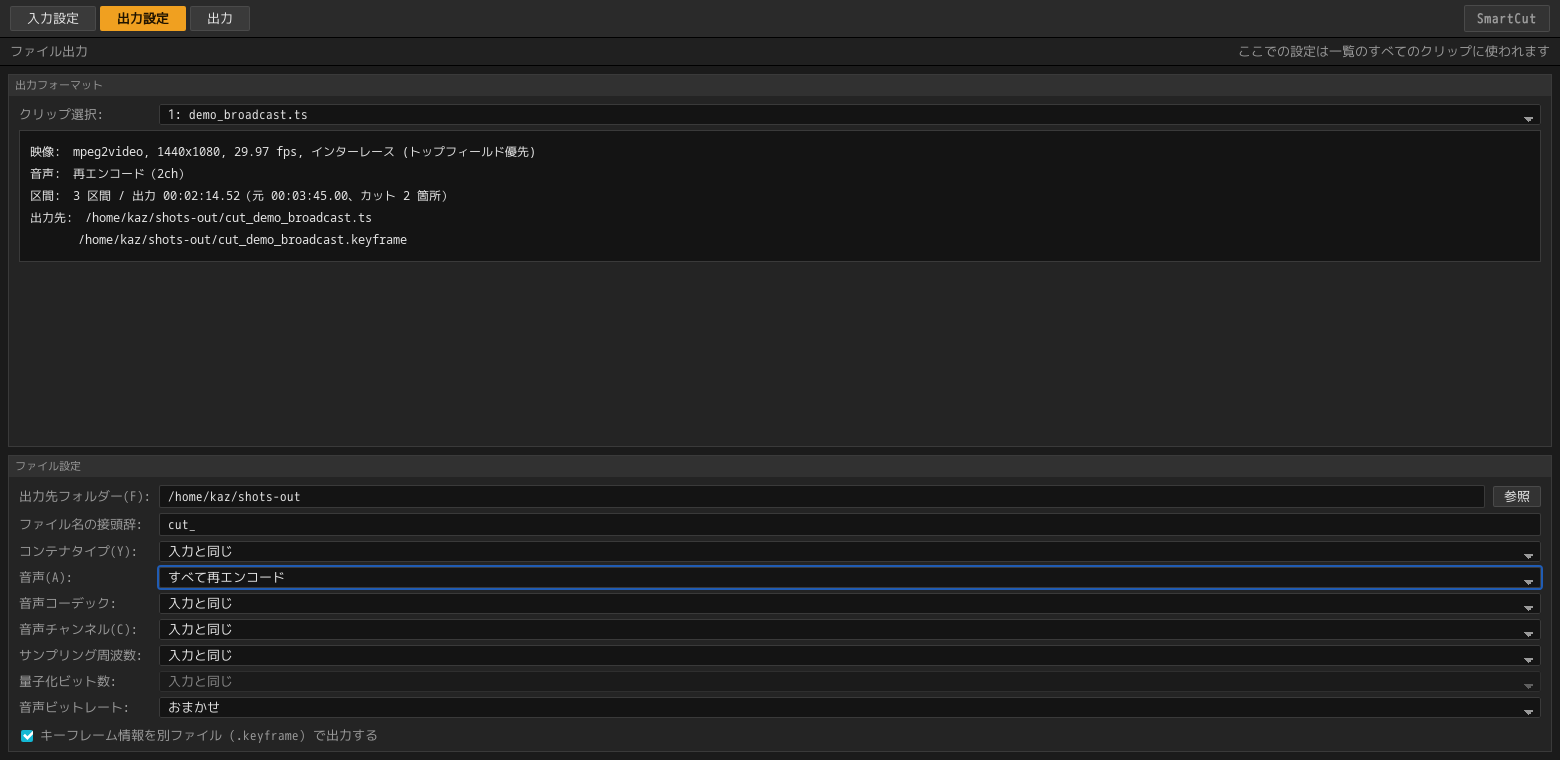
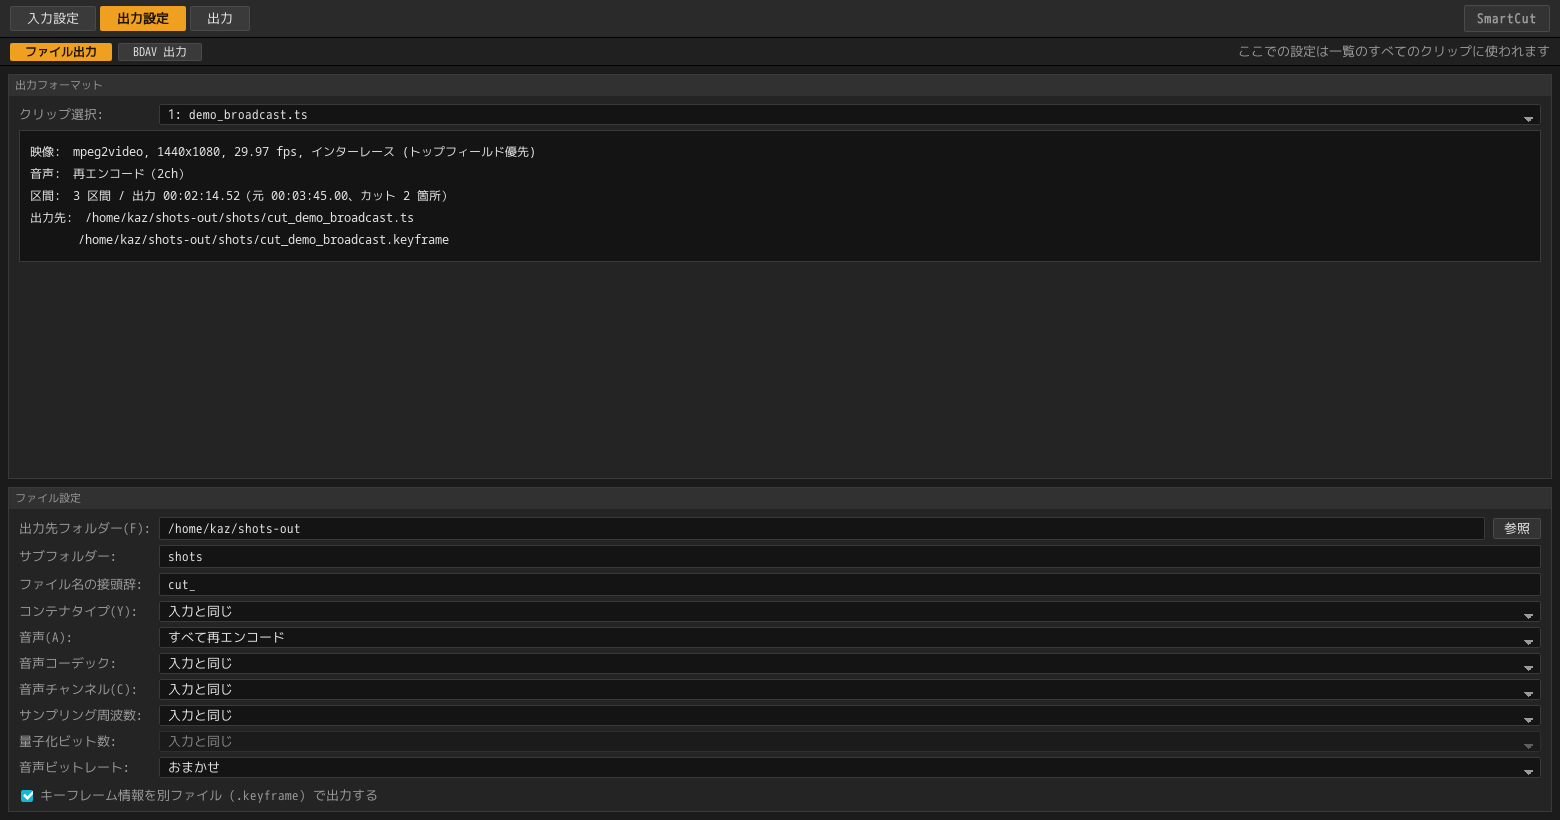
Say what the program does now, and photograph it doing it
The documentation had fallen behind three changes and one release.

* **Stopping a disc run.** Both guides still said that stopping never leaves a
  half-written file and nothing else. What they did not say is what a stopped
  disc run does now: no index is written, so the streams it wrote are taken
  back, and the same goes for a recording whose cut failed. The developer page
  on writing a disc says it beside "adding to a disc", which is where the rule
  it qualifies lives.
* **Numbering the output.** The batch guide explained `_1` and `_2` as a
  duplicate's numbers. They are not: what is numbered is whatever two rows
  would be written to the same path -- the same programme from two folders, or
  the `00001` every disc calls its recordings.
* **The folder a run makes.** The subfolder row was in the settings table and
  nowhere else. The disc section now says where the disc lands (`disc/An
  evening/BDAV`, and the image beside it under that name), and the design page
  says why a disc always gets one and files get one only when there is more
  than one of them.
* **The empty re-encode window** joins the pitfalls in the algorithm page as
  #9, since it is exactly what that list is for: a trap that stopped a real
  run, with a test that fixes it.

**Twelve screenshots retaken**, six pairs in both languages. The two settings
screens and the audio settings had no subfolder row and an output path a level
[…]

Changed region(s): [[0.0, 0.575, 0.9846, 0.9987], [0.0, 0.0, 0.9846, 0.3329], [0.8, 0.0, 1.0, 0.0908]]

diff --git a/docs/user-guide/gui.ja.md b/docs/user-guide/gui.ja.md
@@ -539,10 +539,17 @@ BDAV/
 
 **イメージとして出すこともできます。** `イメージ` の行で、書き終えたディスクを
 `.iso`——Blu-ray が積んでいるのと同じ UDF 2.50 / 2.60 のファイルシステム——に
-包みます。フォルダーの隣に同じ名前で置かれます（`disc/` と `disc.iso`）。
+包みます。ディスクのフォルダーの隣に、同じ名前で置かれます
+（`disc/録画ディスク/BDAV` に対して `disc/録画ディスク.iso`）。
 フォルダーはどちらでも書かれてそのまま残り、イメージは最後の録画の索引まで
 終わったところで作られます（1 秒あたり 1 ギガバイトほど）。SmartCut は
 ディスクを焼きません。渡すのはイメージまでで、焼くのは普段お使いのもので。
+
+**ディスクは自分の名前のフォルダーに入ります。** `ディスクの場所` に指定した
+フォルダーの下に、`サブフォルダー` の名前でもう 1 段作り、そこに `BDAV` を書きます
+（既定ではディスクタイトルと同じ名前です）。ディスクは `BDAV` フォルダーそのもの
+なので、2 枚を 1 つのフォルダーに置くことはできません。サブフォルダー欄を空に
+すれば、これまでどおり指定した場所へ直接書きます。
 
 **一覧全体で 1 枚のディスクになります。** 順番は一覧のとおりで、処理そのものは
 いつもと同じです。各録画はファイルに書くときとまったく同じスマートレンダリング
@@ -595,6 +602,12 @@ BDAV/
 `4 / 4 本を出力しました` のように表示されます。
 
 `出力中止` は、いま書き出しているクリップを最後まで書き終えてから止まります。
+
+**ディスクに書いている途中で止めた場合は、書いたぶんもディスクから引き上げます。**
+索引を作る行程（全ストリームの読み直し）は、止めると言われたあとに数分かける
+仕事なので走りません。走らない以上、書かれたストリームはどのプレイリストからも
+指されず、次回の採番からも外れ、あとで作るイメージにも入ってしまいます。カットに
+失敗したクリップのストリームも同じ扱いです。完走した場合は何も引き上げません。
 
 ### この画面に出るのは「再エンコードされるコマ」です
 

diff --git a/docs/developers/design.ja.md b/docs/developers/design.ja.md
@@ -813,8 +813,21 @@ TMSR6 の「流れるフィルムストリップ上でのサーチ」は、**右
 ないからである。M2TS を明示すればこれまでどおり M2TS が出て、そのときはテーブルを
 マルチプレクサに任せる旨をその場で言う。詳細は [ディスクを読む](disc.ja.md)。
 
-この 3 つはファイルごとに聞く質問ではなく、出力設定画面の設定になっている。フォルダー
-（空欄なら入力と同じ場所）、接頭辞（`cut_`）、そしてコンテナである。コンテナはコンテナ名と
+**同じファイルになる 2 行には番号を振る。** 一覧はもともと「同じ録画の複製」に番号を
+振っていたが、別のフォルダーにある同名の番組も、ディスクから読んだ録画（どれも
+`00001`）も、同じ出力先では同じ名前になる。番号を振る対象は、何が原因であれ**同じ
+パスに書かれる行**である。そうでなければ、「2 本出力しました」と言いながら 1 本が
+黙って消える。
+
+**出力が 2 つ以上あるときは、専用のフォルダーにまとめる。** ディスクは常にそうする。
+ディスクとは `BDAV` フォルダーそのものであり、2 枚を 1 つのフォルダーには置けない
+からである。ファイルは 2 本以上のときだけそうする。一晩ぶんの十数本が、前の晩のぶんと
+混ざって同じ場所に落ちる理由は無い。名前はディスクタイトルまたはプロジェクト名で
+埋めておき、そのあとはただの入力欄である。空にすれば上のフォルダーへ直接書き、1 本
+だけのカットは言われた場所へそのまま書く。
+
+これらはファイルごとに聞く質問ではなく、出力設定画面の設定になっている。フォルダー
+（空欄なら入力と同じ場所）、サブフォルダー、接頭辞（`cut_`）、そしてコンテナである。コンテナはコンテナ名と
 拡張子を一緒に並べた一覧になっている（**入力と同じ** / `MPEG-2 TS (.ts)` /
 `M2TS (.m2ts)` / `MP4 (.mp4)` / `Matroska (.mkv)` / `QuickTime (.mov)`）。「映像」1 行に
 まとめず**項目ごとにコンテナ**にしているのは、選ぶことがそのまま拡張子の切り替えだから

diff --git a/docs/user-guide/batch.ja.md b/docs/user-guide/batch.ja.md
@@ -100,10 +100,12 @@ libavcodec のスレッド化が効きません）。裏の処理どうしが分
 目的を果たせません。インデックス・尺・CM 検出の結果も引き継がれます。どれも同じ
 ファイルについての答えなので、複製してもディスクの読み直しは発生しません。
 
-同じ録画が一覧に複数ある場合、出力ファイル名には一覧順に `_1` `_2` が付きます。
-これが無いと 2 本目のカットが 1 本目を上書きしてしまいます。片方を消すと、残った
-ほうは番号の無い名前に戻ります。番号は複製時に刻み込むのではなく、そのつど一覧
-から数えているためです。
+**同じファイル名になる行には、一覧順に `_1` `_2` が付きます。** 複製がその代表例
+ですが、それだけではありません。別のフォルダーにある同名の番組も、ディスクから
+読んだ録画（どれも `00001`）も、同じ出力先に書けば同じ名前になります。番号が
+無ければ 2 本目が 1 本目を消してしまい、「2 本出力しました」と言いながら 1 本
+消えていることになります。片方を消すと、残ったほうは番号の無い名前に戻ります。
+番号は複製時に刻み込むのではなく、そのつど一覧から数えているためです。
 
 ## 一覧を書き出す
 
@@ -111,7 +113,10 @@ libavcodec のスレッド化が効きません）。裏の処理どうしが分
 その上に全体の状況・経過時間・残り時間が出ます。
 
 `出力中止` は、いま書き出しているクリップを最後まで書き終えてから止まります。
-途中まで書かれたファイルが残ることはありません。
+途中まで書かれたファイルが残ることはありません。**ディスクに書いている途中で
+止めた場合は、書いたぶんもディスクから引き上げます**——止めた実行では索引を作る
+行程が走らず、索引の無いストリームはディスクの誰からも指されないからです。詳しくは
+[GUI ガイド](gui.ja.md#4-書き出す)にあります。
 
 書き出しの順序は一覧の順序なので、「これを最初に書き出したい」というときは
 その行を上へドラッグします。

diff --git a/docs/user-guide/gui.md b/docs/user-guide/gui.md
@@ -559,11 +559,19 @@ or ImgBurn will burn as it stands.
 
 **Or it comes out as an image.** The `Image` row wraps the finished disc in a
 `.iso` — a UDF 2.50 or 2.60 filesystem, which is what a Blu-ray carries —
-written beside the folder under the same name: `disc/` and `disc.iso`. The
+written beside the disc's folder under the same name: `disc/An evening/BDAV`
+and `disc/An evening.iso`. The
 folder is written either way and stays where it is; the image is made of it
 once the last recording is indexed, at about a gigabyte a second. SmartCut
 does not burn discs: what it hands you is the image, and the burner is
 whatever you already use.
+
+**The disc goes in a folder of its own name.** Under the folder given as
+`Disc folder`, SmartCut makes one more named by the `Subfolder` row -- the
+disc's own title, unless you say otherwise -- and writes `BDAV` in there. A
+disc *is* the `BDAV` folder, so two of them cannot share one folder. Empty the
+subfolder row and the disc is written straight into the folder you gave, as it
+was before.
 
 **The whole list becomes one disc**, in list order, and the run is the same
 run: each recording is smart rendered exactly as it would have been into a
@@ -625,6 +633,13 @@ progress and result, and above them are the overall state, the elapsed time and 
 time remaining. At the end it says `4 of 4 written`.
 
 `Stop export` finishes writing the clip currently in progress, then stops.
+
+**Stopping part way through a disc takes back what was written to it.** The pass
+that writes the index reads every stream on the disc back, which is minutes of
+work nobody wants after saying stop, so it does not run — and a stream no
+playlist names is one the disc does not know it has, skipped by the next run's
+numbering and carried into any image made of the disc afterwards. The stream of a
+clip whose cut failed goes the same way. A run that finishes keeps everything.
 
 ### This screen shows the frames that get re-encoded
 

diff --git a/docs/developers/design.md b/docs/developers/design.md
@@ -861,8 +861,22 @@ framing and PID numbering, which is not what [the tables put back after
 muxing](../technical/broadcast-ts.md) describe. Choosing M2TS explicitly still gets one,
 and says that the tables are being left to the muxer. See [Reading a disc](disc.md).
 
-All three are settings on the output settings screen rather than a question asked once per
-file: the folder (empty meaning the input's own), the prefix (`cut_`), and the container,
+**Two rows that would be written to the same file are numbered.** The list already
+numbered the copies of one recording; two recordings of the same programme in different
+folders share a name too, and every recording read off a disc is called `00001`. What is
+numbered is therefore what would land on the same path, whatever made it collide -- the
+alternative is a run that reports two files written with one of them silently gone.
+
+**More than one output goes in a folder of its own.** A disc always does, since a disc is
+the `BDAV` folder itself and two of them cannot share one; files do where there is more
+than one of them, an evening's dozen cuts having no business landing loose beside last
+night's. The name is filled in from the disc's title, or the project's, and is a plain
+field after that -- emptied, the run writes straight into the folder above, and a single
+cut goes where it was told to go with no folder made for it.
+
+These are settings on the output settings screen rather than a question asked once per
+file: the folder (empty meaning the input's own), the subfolder, the prefix (`cut_`), and
+the container,
 which is a list naming a container and its extension together — **Same as the input** /
 `MPEG-2 TS (.ts)` / `M2TS (.m2ts)` / `MP4 (.mp4)` / `Matroska (.mkv)` / `QuickTime (.mov)`.
 **A container per entry** rather than one "video" line, because choosing one is what swaps

diff --git a/docs/user-guide/batch.md b/docs/user-guide/batch.md
@@ -106,10 +106,13 @@ edit would be useless for the thing duplicates exist for. The index, the length 
 whatever commercial detection found come across too — they are all the same file's
 answer — so a duplicate costs no extra pass over the disk.
 
-Output filenames gain `_1` and `_2` in list order when a recording appears in the
-list more than once; without that, the second cut would land on top of the first.
-Remove one copy and the survivor gets its plain name back, because the number is
-counted off the list each time rather than stamped on at duplication.
+**Rows that would be written to the same file gain `_1` and `_2` in list order.**
+Duplicates are the obvious case and not the only one: two recordings of the same
+programme in different folders share a name, and every recording read off a disc
+is called `00001`. Without the number the second cut would land on top of the
+first, and the run would report two files written with one of them gone. Remove
+one and the survivor gets its plain name back, because the number is counted off
+the list each time rather than stamped on at duplication.
 
 ## Exporting the list
 
@@ -118,7 +121,10 @@ carries its own progress and result; above them are the overall state, the elaps
 time and the time remaining.
 
 `Stop export` finishes writing the clip currently in progress and then stops, so you
-never end up with a half-written file.
+never end up with a half-written file. **Stopping part way through a disc takes back
+what was written to it**: a stopped run does not write the index, and a stream no
+playlist names is one the disc does not know it has. See the
+[GUI guide](gui.md#4-write).
 
 Because the export order is the list order, dragging a row to the top is how you say
 "write this one first".

diff --git a/docs/technical/algorithm.ja.md b/docs/technical/algorithm.ja.md
@@ -157,3 +157,18 @@ Rust コアはこれに加えて `smart` を持ち、こちらが既定である
 `--verify` の参照側を `-ss` で作ってはいけない。オープン GOP では参照側自体が
 ずれるので（理由は 6 と同じ）、**正しいカットが誤りとして報告される**。先頭から
 復号し、フレーム番号で切り出す。
+
+### 9. ピクチャの入らない再エンコード区間を作らない
+
+`tail` は「コピーの終端」から「区間の終わり `t_out`」までである。この 2 つは
+ふつう数フレーム離れているが、`t_out` がアクセスポイントのすぐ後——たとえば
+29.97fps のストリームで、絵が 60.05996 秒にあるところへ 60.060 秒を指定した
+場合——に来ると、その差は 1 ピクチャの間隔より小さくなる。
+
+こうして生まれた区間には**復号すべき絵が 1 枚も入らない**。カッターは中身の無い
+窓を拒否する（そうでなければ、絵の出てこない再エンコードが黙って通ってしまう）
+ので、そのクリップではなく**実行そのものが止まる**。
+
+したがって `tail` は、`head` が 1 フレームを要求するのと同じ理由で、半フレーム
+以上あるときにだけ作る。Python リファレンス実装も同じ位置に線を引いている。
+念のため、フレーム数 0 と算出された再エンコード区間はそもそも出力しない。

diff --git a/docs/technical/algorithm.md b/docs/technical/algorithm.md
@@ -162,3 +162,19 @@ implemented.
 The reference side of `--verify` must not be built with `-ss`. On open GOPs the
 reference itself shifts, for the same reason as #6, and **a correct cut gets reported
 as wrong**. Decode from the beginning and slice by frame number.
+
+### 9. Never plan a re-encode window with no picture in it
+
+The `tail` runs from where the copy's coverage ends to the end of the range, `t_out`.
+Those two are usually a few frames apart -- but where `t_out` lands just after an
+access point (60.060 s asked for on a 29.97 fps stream whose picture sits at
+60.05996 s), the gap is thinner than the spacing between two pictures.
+
+Such a window **has no picture to decode**. The cutter refuses a window it can decode
+nothing out of -- otherwise a re-encode that produced no frames would pass in silence
+-- so **the run stops**, not just that clip.
+
+A tail is therefore written only when it is at least half a frame wide, for the same
+reason the head has to be a whole one; the Python reference draws the line in the
+same place. As a net under both, a re-encode segment whose frame count works out to
+zero is not emitted at all.

diff --git a/docs/developers/bdav.md b/docs/developers/bdav.md
@@ -270,6 +270,15 @@ recorder behaves and what makes a disc worth filling over a week.
 The disc's own name is the one exception: it is one name for the disc, so the
 one on the screen wins.
 
+What a run adds it also takes back when it does not finish. A slot is reserved
+before the cut that fills it, and the index is written once at the end over
+what the run finished; stop the run and that pass does not happen, so what is
+left is a stream no playlist names, one the next run's numbering walks past
+and any image made of the disc afterwards carries. Those streams -- and the
+stream of a recording whose cut failed while the rest of the list went on --
+are removed at the end of the run. Only the numbers the run itself was given
+are ever named, so nothing another run put on the disc is touched.
+
 ## The image
 
 A folder is what a recorder writes to a disc and what an authoring tool will

diff --git a/README.md b/README.md
@@ -152,7 +152,8 @@ pressed season set holds twelve episodes among fifty logos, warnings and menu
 loops, and the disc calls all sixty-two of them `000NN`. The ones likely to be
 programmes are ticked for you.
 
-Cuts are written next to the disc under the programme's name. The chapters the
+Cuts are written next to the disc under the programme's name, in a folder of
+their own where there is more than one of them. The chapters the
 disc set are already on the timeline as keyframes, and on a Japanese recording
 they are frequently the commercial breaks themselves.
 
